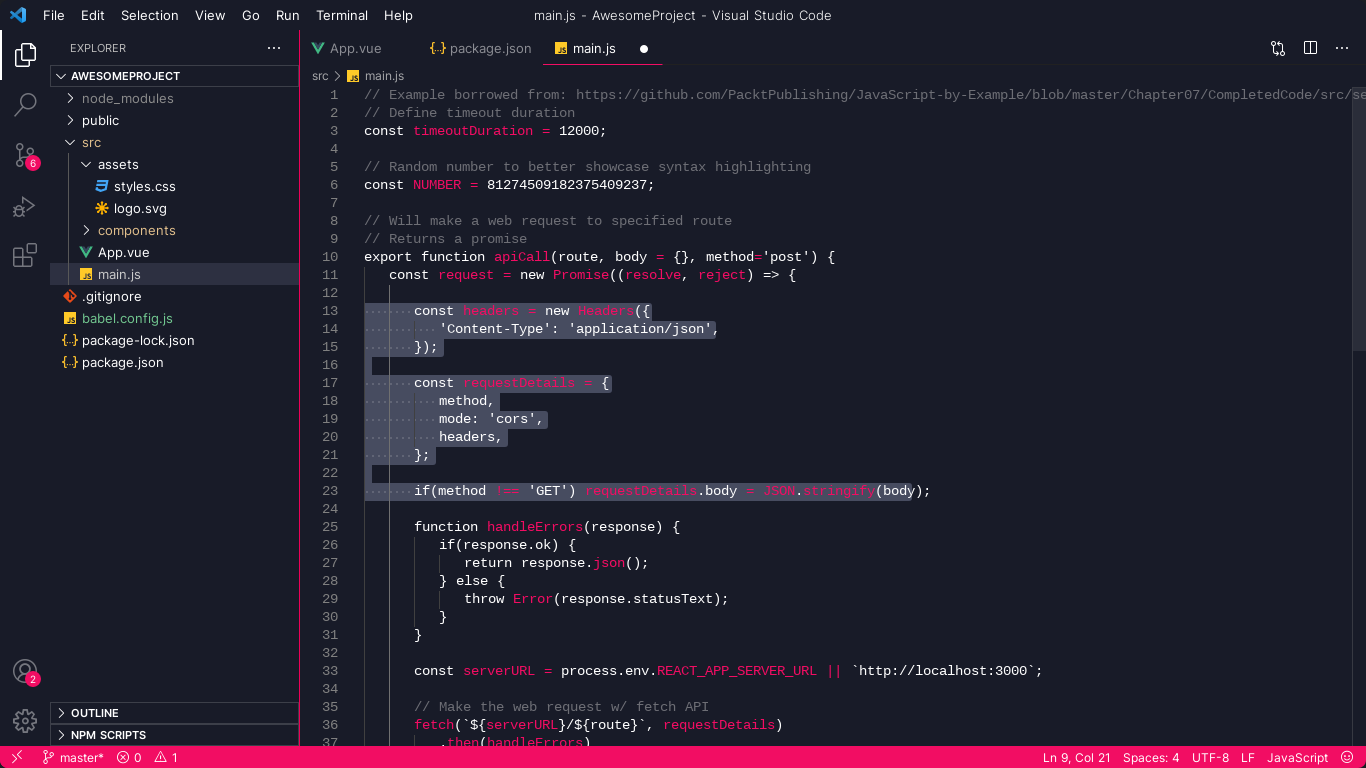
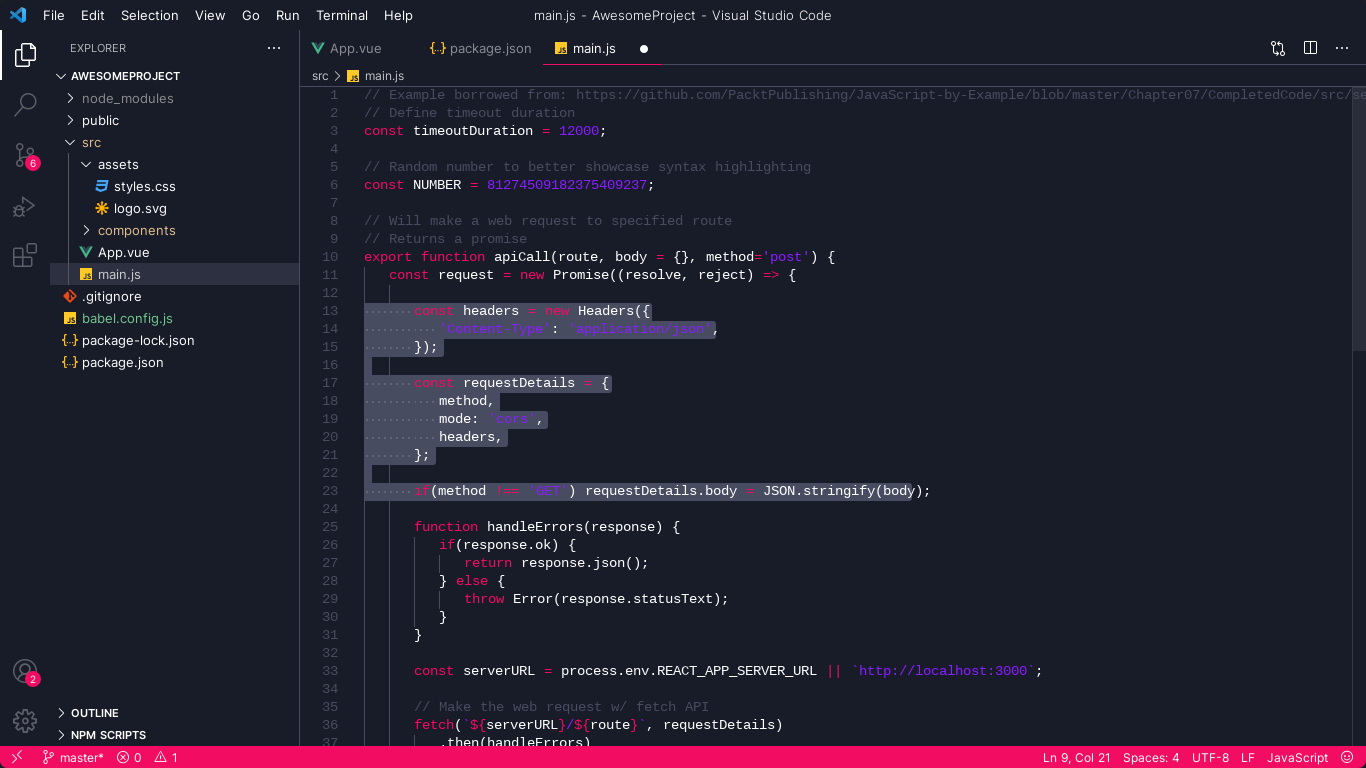
update all

diff --git a/README.md b/README.md
@@ -1,19 +1,20 @@
 
 <div align="center">
 
-<img src="Images/LV_logo.png" />
+<img src="Images/LV_name_logo.png" />
 
 ---
 
 A dark minimalist VS Code theme with a magma touch.
-
-<img src="Images/LV_screen_1.png"/>
-
-<img src="Images/LV_screen_2.png"/>
-
 </div>
 
-## Color palette
+## 1. Screen
+
+<div align="center">
+<img src="Images/LV_screen_1.png"/>
+</div>
+
+## 2. Color palette
 
 <div align="center">
   
@@ -23,14 +24,15 @@ Darkish Black  | `#181B28` | `24 27 40`  |<img src="Images//darkish_black.png" w
 Dark Black     | `#252234` | `37 34 52`  |<img src="Images//dark_black.png" width="30"/>
 Grey           | `#474c60` | `71 76 96`  |<img src="Images//grey.png" width="30"/>
 Pink Red       | `#f20d63` | `242 13 99` |<img src="Images//pink_red.png" width="30"/>
+Purple         | `#891fff` | `137 31 255`|<img src="Images//purple.png" width="30"/>
 
 </div>
 
-## Tech used
+## 3. Tech used
 
 * [Theme Studio for VS Code](https://themes.vscode.one/)
 
-## Installation steps
+## 4. Installation steps
 
 ### From VS Code
 
